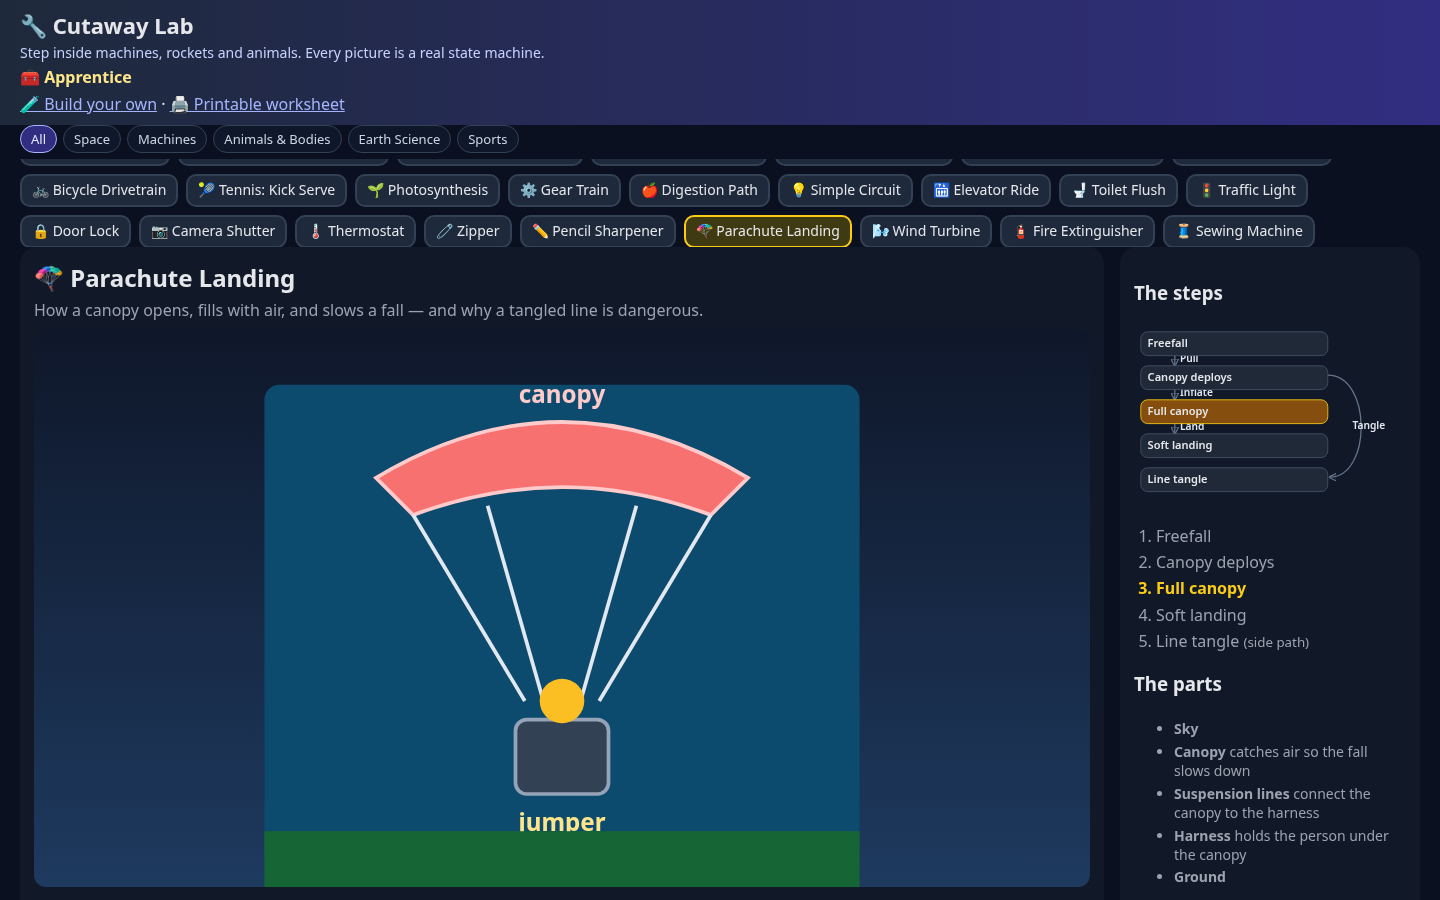
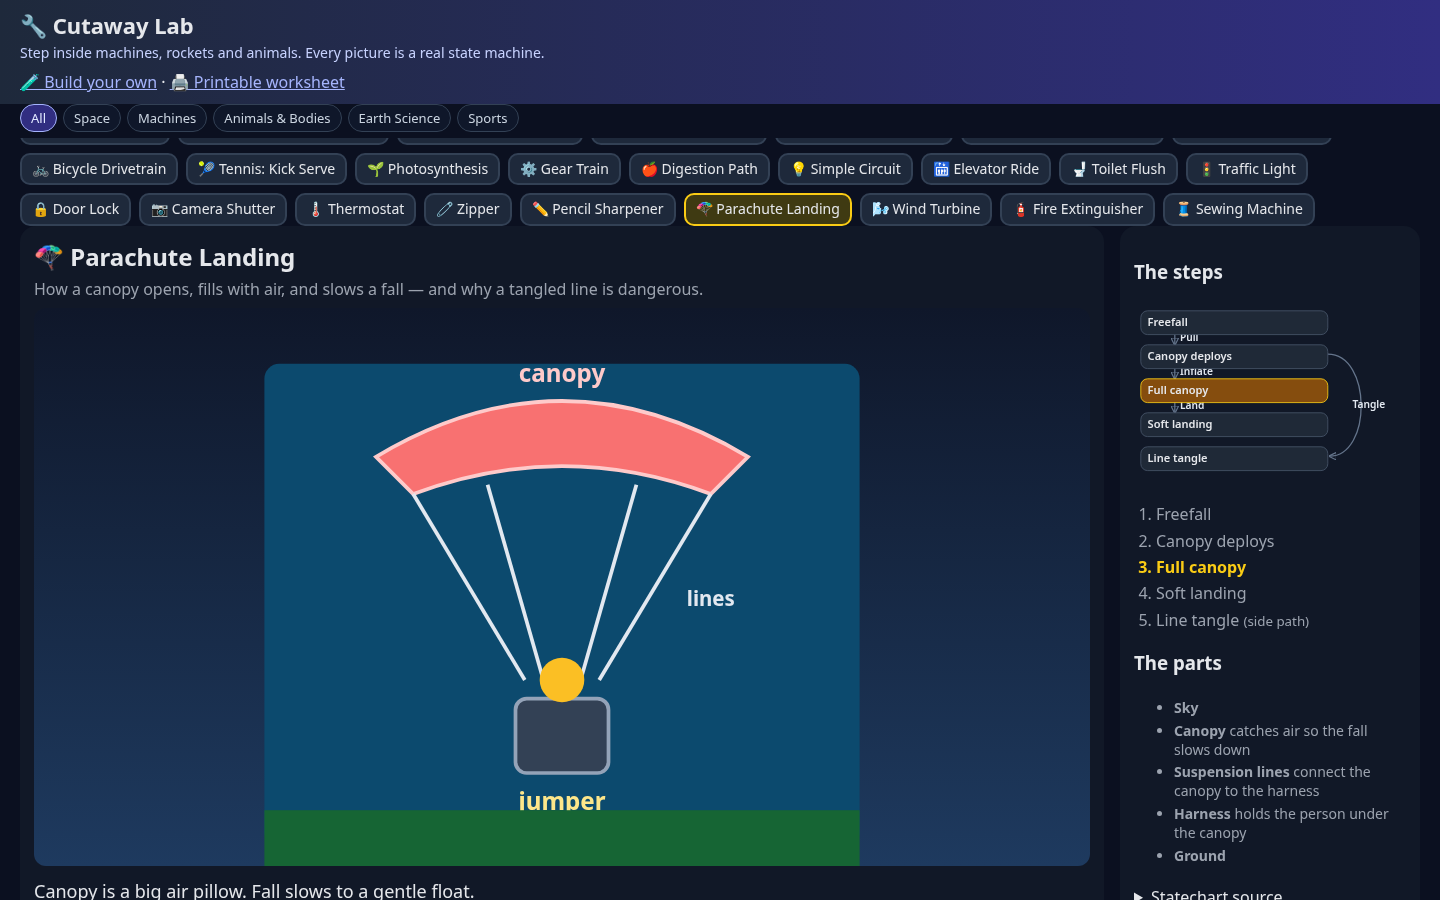
v1.0: extinguisher tank caption; parachute lines shot

diff --git a/machines/extinguisher.js b/machines/extinguisher.js
@@ -5,6 +5,8 @@ export default {
   parts: [
     { id: 'tank', label: 'Tank', job: 'holds the agent under pressure',
       svg: '<rect x="150" y="80" width="100" height="180" rx="20" fill="#b91c1c" stroke="#fecaca" stroke-width="3"/>', explode: [-40, 0] },
+    { id: 'lblTank', label: 'Tank label',
+      svg: '<text x="110" y="180" text-anchor="middle" fill="#fecaca" font-size="12" font-weight="700">tank</text>' },
     { id: 'gauge', label: 'Pressure gauge', job: 'shows whether the tank still has pressure',
       svg: '<circle cx="200" cy="120" r="18" fill="#0f172a" stroke="#e2e8f0" stroke-width="2"/><path d="M200 120 L210 110" stroke="#22c55e" stroke-width="3"/><text x="200" y="155" text-anchor="middle" fill="#86efac" font-size="11">OK</text>', explode: [0, -40] },
     { id: 'handle', label: 'Handle', job: 'squeezes open the valve when the pin is out',
